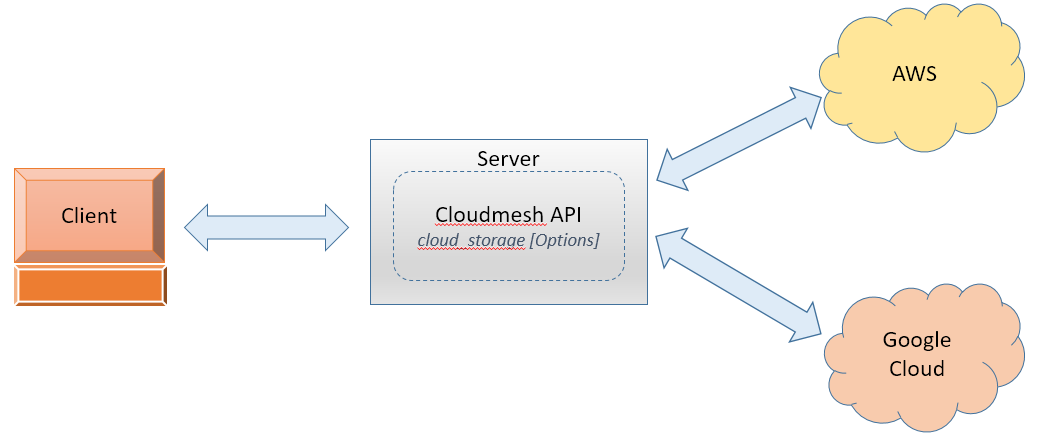
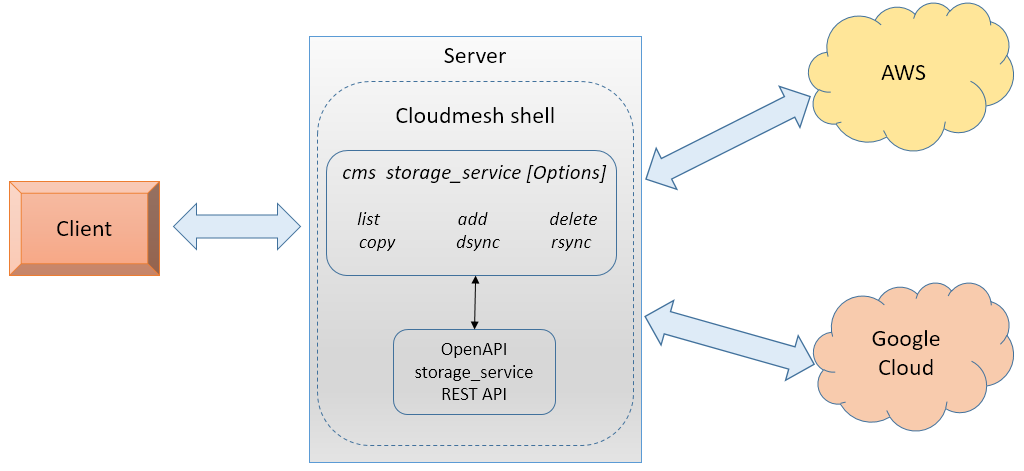
Updated report.md and architecture diagram

diff --git a/project/report.md b/project/report.md
@@ -3,33 +3,65 @@
  
  fa19-516-152
  
- [GitHub link](<https://github.com/cloudmesh-community/fa19-516-152/blob/master/project/report.md>)
+<https://github.com/cloudmesh-community/fa19-516-152/blob/master/project/report.md>
 
 ## Introduction
 
-This project is to develop API and rest services to transfer files between two cloud service providers. In this case, the file transfer will be implemented between AWS to/from Google data storage. To evaluate the performance, pytests will be developed and benchmarks will be provided in AWS and Google.
+This project is to develop API and rest services to manage and transfer files between different cloud service providers. A cloudmesh based command will be implemented to transfer files present in a storage queue from a source to target cloud provider. In this instance, the functionality will be implemented for AWS and Google Cloud. For performance evaluation py tests will be created. 
+
+## Motivation
+ Multiple cloud providers offer storage solutions to manage data in the form of files. The intention here is to build a command which can provide functionality to read the files from a queue and move them from a source to a target cloud provider's storage. In this method, users will be able to split or move the data across different cloud providers that provider cheaper solutions. 
+
+## Requirements
+* AWS, Google cloud accounts
+* cloudmesh-storage API
+* REST API
+* cloudmesh-storage queue API
+* Python API
+TBD
 
 ## Architecture Diagram
- ![Architecture](images/architecture.png)
+ ![Architecture](images/architecture.PNG)
 
+Description
 
+* Client intiates a cms storage_switch command with options such as
+ 
+   1) Recursive file copy from source to target
+  2) List the files
+  3) Add the files
+  4) delete the files
+  
+* Cloudmesh storage_switch command will run on the local server. According to the options and arguments, this would delegate the functions between AWS and Google Cloud.  
+* Storage and Utility APIs on AWS and Google cloud.   
 
 ## Technology Used
 * cloudmesh-storage
 * Python
 * REST
-* AWS Storage
+* AWS S3 Storage
 * Google Storage
+* OpenAPI
 
-## Architecture Diagram
+## Progress
+* Update report.md with architecture and command details.
+* Generated command using cloudmesh shell - cms storage_service command
+* Create AWS account and Google Cloud accounts
+* Access AWS account using cloudmesh commands
 
-TBD
+Next Steps
+* Update provider classes for AWS and Google Cloud.
+* Explore the Google's gsutil api and read on how to use it in project.
+* Copy file from aws to google cloud
+* Copy file from google cloud to aws. 
 
-## Usage
-
-TBD
 
 ## References
+* <https://github.com/googleapis/google-cloud-python#google-cloud-python-client>
+* <https://aws.amazon.com/s3/>
+* <https://boto3.amazonaws.com/v1/documentation/api/latest/guide/resources.html>
+* <https://github.com/cloudmesh/cloudmesh-storage/tree/master/cloudmesh/storage>
+
 
 
 
